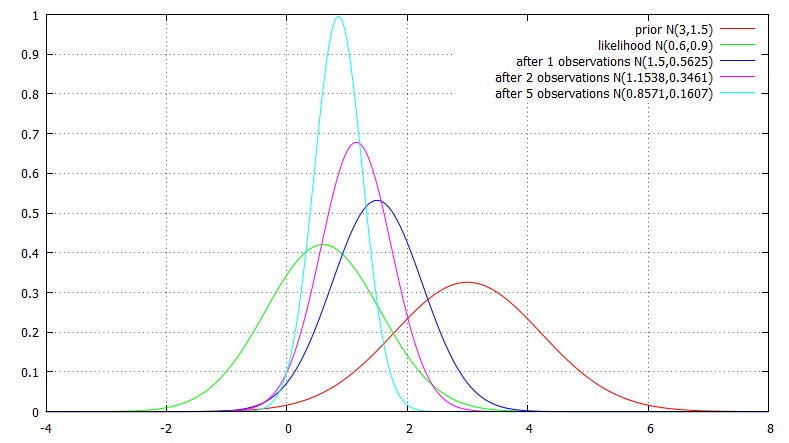
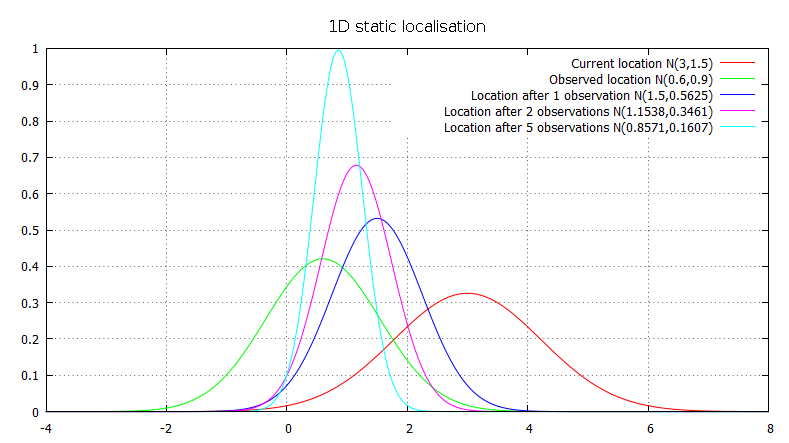
Writing documentation for 1D localisation

diff --git a/doc/localisation_example/localisation_example.md b/doc/localisation_example/localisation_example.md
@@ -26,9 +26,7 @@ Predicted robot position given observed position:
 
 ![Posterior](https://raw.github.com/danielkorzekwa/bayes-scala/master/doc/localisation_example/static_posterior.png "Posterior")
 
-![Prior, likelihood and posterior distribution](https://raw.github.com/danielkorzekwa/bayes-scala/master/doc/localisation_example/static_localisation_gaussian.png "Prior, likelihood and posterior distribution")
-
-Figure 2 Prior, likelihood and posterior distributions
+![1D static localisation](https://raw.github.com/danielkorzekwa/bayes-scala/master/doc/localisation_example/static_localisation_gaussian.png "1D static localisation")
 
 * Implementation
   * [Kalman Filter](https://github.com/danielkorzekwa/bayes-scala/blob/master/src/test/scala/dk/bayes/gaussian/localisation1d/StaticLocalisationKalmanTest.scala)
@@ -59,6 +57,8 @@ Measured robot position given its current location:
 Predicted robot location given observed position:
 
 ![Posterior](https://raw.github.com/danielkorzekwa/bayes-scala/master/doc/localisation_example/dynamic_posterior.png "Posterior")
+
+![1D dynamic localisation](https://raw.github.com/danielkorzekwa/bayes-scala/master/doc/localisation_example/dynamic_localisation_gaussian.png "1D dynamic localisation")
 
 * Implementation
  * [Kalman Filter](https://github.com/danielkorzekwa/bayes-scala/blob/master/src/test/scala/dk/bayes/gaussian/localisation1d/HMMLocalisationKalmanTest.scala)

diff --git a/doc/bn_resources/bn_resources.md b/doc/bn_resources/bn_resources.md
@@ -37,7 +37,7 @@ Expectation Propagation
 * [O. Zoeter and T. Heskes, in Z. Ghahramani and R. Cowell (eds.). Gaussian quadrature based expectation propagation, 2005](http://www.gatsby.ucl.ac.uk/aistats/fullpapers/140.pdf)
 * [Antti Honkela,Introduction to Expectation Propagation](http://www.cis.hut.fi/cis/projects/mi/ep_intro.pdf)
 * [Charles Sutton. Expectation Propagation in Factor Graphs: A Tutorial,2005](http://homepages.inf.ed.ac.uk/csutton/publications/ep-tutorial.pdf)
-* [Kevin P. Murphy. From Belief Propagation to Expectation Propagation, 2001](www.cs.ubc.ca/~murphyk/Papers/EP.ps.gz)
+* [Kevin P. Murphy. From Belief Propagation to Expectation Propagation, 2001](http://www.cs.ubc.ca/~murphyk/Papers/EP.ps.gz)
 
 Variational Inference
 ---------------------
